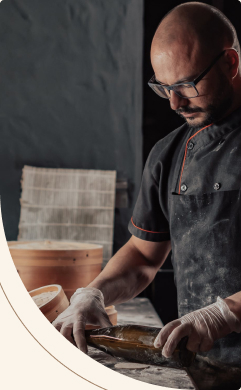
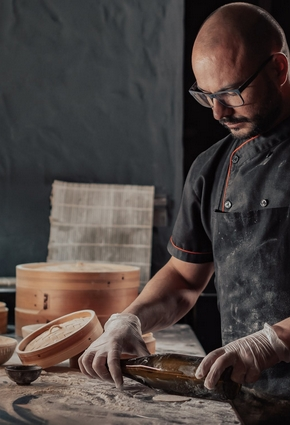
Add styles and work with SVG

diff --git a/index.html b/index.html
@@ -61,35 +61,40 @@
                             обслуговування!
                         </p>
                     </div>
-                    <img src="./images/baker-with-fresh-bread.jpg"
+                    <img class="baker-photo" src="./images/baker-with-fresh-bread.jpg"
                         alt="Пекар з усмішкою транспотрує стійку зі свіжим хлібом">
                 </div>
             </div>
         </section>
         <section class="section" id="chefs-section">
             <div class="container">
-                <h2 class="chef-title section-title">Наші найкращі <span class="accent">шеф -кухарі</span></h2>
-                <ul>
+                <h2 class="chef-title section-title centered">Наші найкращі <span class="accent">шеф -кухарі</span></h2>
+                <ul class="chef-container">
                     <li>
-                        <article>
-                            <img src="./images/chef-women.jpg"
+                        <article class="chef-card">
+                            <img class="chef-photo" src="./images/chef-women.jpg"
                                 alt="Жінка пекарь посміхається та тримає тарілку зі стравою">
-                            <h3 class="chef-name">Настя</h3>
-                            <p>Привіт, я Настя!</p>
-                            <p>Вже 10 років, я свтілюю у життя цікаві та смачні ідеї.</p>
-                            <p>Я випічу для вас найсмачніщі вироби!</p>
+                            <div class="chef-discription">
+                                <h3 class="chef-name">Настя</h3>
+                                <p>Привіт, я Настя!</p>
+                                <p>Вже 10 років, я свтілюю <br>у життя цікаві та смачні ідеї.</p>
+                                <p>Я випічу для вас найсмачніщі вироби!</p>
+                            </div>
                         </article>
                     </li>
                     <li>
-                        <article>
-                            <img src="./images/chef-men.jpg" alt="Пекар чоловік працює з тестом">
-                            <h3 class="chef-name">Влад</h3>
-                            <p>Привіт, я Влад!</p>
-                            <p>Мій кодитерський стаж вже 18 років. SHOP BEKERY - це наша любов, з якою ми ділимось кожен
-                                раз
-                                з Вами
-                                через нашу випічку!</p>
-                            <p>Я зроблю для вас унікальну начинку на будь який смак!</p>
+                        <article class="chef-card">
+                            <img class="chef-photo" src="./images/chef-men.jpg" alt="Пекар чоловік працює з тестом">
+                            <div class="chef-discription">
+                                <h3 class="chef-name">Влад</h3>
+                                <p>Привіт, я Влад!</p>
+                                <p>Мій кодитерський стаж вже 18 років. SHOP BEKERY - це наша любов, з якою ми ділимось
+                                    кожен
+                                    раз
+                                    з Вами
+                                    через нашу випічку!</p>
+                                <p>Я зроблю для вас унікальну начинку на будь який смак!</p>
+                            </div>
                         </article>
                     </li>
                 </ul>
@@ -97,7 +102,12 @@
         </section>
         <section class="section" id="format-section">
             <div class="container">
-                <h2 class="format-title section-title">Формати</h2>
+                <h2 class="format-title section-title centered">Формати</h2>
+                <button class="back-button" type="button">
+                    <svg class="formats-arrow">
+                        <use href="./images/icons.svg#icon-arrow"></use>
+                    </svg>
+                </button>
                 <ul class="format-list">
                     <li class="format-item">
                         <article class="format-card">
@@ -133,6 +143,11 @@
                         </article>
                     </li>
                 </ul>
+                <button class="forvard-button" type="button">
+                    <svg class="formats-arrow">
+                        <use href="./images/icons.svg#icon-arrow"></use>
+                    </svg>
+                </button>
             </div>
         </section>
         <section class="section" id="contacts-section">
@@ -171,8 +186,15 @@
                             Січових
                             Стрільців 54</a>
                     </li>
-                    <li><a href="#"><img src="./images/facebook-icon.svg" alt="Посилання на сторінку Fasebook"></a></li>
-                    <li><a href="#"><img src="./images/instagram-icon.svg" alt="Посилання на сторінку Instagram"></a>
+                    <li><a href="#">
+                            <svg class="adress-icon">
+                                <use href="./images/icons.svg#icon-facebook">Посилання на сторінку Fasebook</use>
+                            </svg>
+                    </li>
+                    <li><a href="#">
+                            <svg class="adress-icon">
+                                <use href="./images/icons.svg#icon-instagram">Посилання на сторінку Instagram</use>
+                            </svg>
                     </li>
                 </ul>
             </address>

diff --git a/css/styles.css b/css/styles.css
@@ -27,10 +27,12 @@
 }
 
 :root {
-    --color-brand-light: #819B57;
+    --color-brand-light: #CFCFBC;
+    --color-brand-normal: #819B57;
     --color-brand-dark: #465929;
     --color-primary-light: #FAF4EA;
     --color-primary-dark: #31261A;
+    --color-decoration: #A18268;
 }
 
 /* -- general properties -- */
@@ -39,15 +41,22 @@
 }
 
 body {
-    width: 100%;
-    max-width: 1440px;
-    margin: 0 auto; 
+    /* width: 100%;
+    max-width: 1440px; */
+    /* margin: 0 auto;  */
     color: var(--color-primary-dark);
     /* background-color: var(--color-primary-light); */
     font-family: 'Poppins', sans-serif;
     font-size: 18px;
     font-weight: 400;
     line-height: 1.5;
+}
+
+main {
+    width: 100%;
+    max-width: 1440px;
+    margin: 0 auto;
+    background-color: var(--color-primary-light);
 }
 
 .container {
@@ -77,12 +86,16 @@ ul {
     line-height: 1.3;
 }
 
+.section-title.centered {
+    text-align: center;
+}
+
 .section-title .accent {
     color: var(--color-brand-dark);
 }
 
 .accent {
-    color: var(--color-brand-light);
+    color: var(--color-brand-normal);
 }
 
 .section {
@@ -101,9 +114,9 @@ ul {
 /* -- buttons -- */
 .button {
     padding: 16px 32px;
-    background-color: var(--color-brand-light);
+    background-color: var(--color-brand-normal);
     color: var(--color-primary-light);
-    border: 2px solid var(--color-brand-light);
+    border: 2px solid var(--color-brand-normal);
     border-radius: 8px;
     cursor: pointer;
     font-size: 18px;
@@ -144,13 +157,13 @@ ul {
 }
 
 .header-link:hover {
-    color: var(--color-brand-light);
+    color: var(--color-brand-normal);
     /* font-weight: 600; */
 }
 
 /* -- general section -- */
 .general-section {
-    background-image: url(../images/couple-in-bakery.jpg);
+    background-image: url(../images/header-background.jpg);
     background-position: center;
     background-size: cover;
     padding: 272px 0;
@@ -165,7 +178,7 @@ ul {
 
 /* -- advantages section -- */
 .advantages-section {
-    background-color: var(--color-brand-light);
+    background-color: var(--color-brand-normal);
     padding: 16px 0;
 }
 
@@ -208,7 +221,7 @@ ul {
 }
 
 .traditions-text span {
-    color: var(--color-brand-light);
+    color: var(--color-brand-normal);
     font-weight: 600;
 }
 
@@ -222,11 +235,21 @@ ul {
     flex-basis: 710px;
 }
 
+.baker-photo {
+    border-radius: 400px 400px 2px 2px;
+}
+
 /* -- chefs section -- */
 .chef-title {
-    margin: 0 auto;
-    text-align: center;
+    margin: 0 auto 80px;
     max-width: 520px;
+}
+
+.chef-title::before, .chef-title::after {
+    display: block;
+    width: 352px;
+    border: 2px solid var(--color-brand-light);
+    content: '';
 }
 
 .chef-name {
@@ -235,22 +258,48 @@ ul {
     font-size: 40px;
 }
 
-/* -- format section -- */
-.format-title {
-    text-align: center;
+.chef-photo {
+    border-radius: 4px 4px 4px 200px;
+    box-shadow: -27px 16px 0 0 var(--color-primary-light), -27px 16px 0 1px var(--color-decoration);
 }
+
+.chef-container {
+    display: flex;
+}
+
+.chef-container li {
+    flex-basis: calc(100% / 2);
+}
+
+.chef-card {
+    display: flex;
+}
+
+.chef-discription {
+    padding-left: 30px;
+    max-width: 330px;
+}
+
+/* -- format section -- */
 
 .card-title {
     color: var(--color-primary-light);
     font-weight: 600;
     font-size: 24px;
+    margin-bottom: 16px;
 }
 
-.format-description{
+.format-description {
     color: var(--color-primary-light);
     font-weight: 300;
     font-size: 14px;
 }
+
+.format-description p {
+    max-width: 280px;
+    margin-bottom: 0;
+}
+
 
 .format-list {
     display: flex;
@@ -260,15 +309,44 @@ ul {
 }
 
 .format-item {
+
     flex-basis: calc((100% - 40px)/3);
 }
 
 .format-card {
+    background-image: linear-gradient(180deg, #31261a00 55.21%, #31261ab5 72.92%, var(--color-primary-dark) 100%);
     height: 440px;
     padding: 24px;
+    padding-top: 250px;
     border-radius: 16px;
-    border: 1px solid var(--color-brand-dark); /* Remove */
-    background-color: rgb(179, 179, 179); /* Remove */
+}
+
+.formats-arrow {
+    width: 16px;
+    height: 16px;
+    fill: var(--color-primary-dark);
+}
+
+.back-button, .forvard-button {
+    display: flex;
+    align-items: center;
+    justify-content: center;
+    padding: 0;
+    background-color: transparent;
+    width: 44px;
+    height: 44px;
+    border: 1px solid var(--color-primary-dark);
+    border-radius: 50%;
+    cursor: pointer;
+}
+
+.back-button:hover, .forvard-button:hover {
+    background-color: var(--color-primary-dark);
+}
+
+.back-button:hover .formats-arrow,
+.forvard-button:hover .formats-arrow {
+    fill: var(--color-brand-light);
 }
 
 /* -- contacts section -- */
@@ -286,6 +364,16 @@ ul {
 }
 
 /* -- footer -- */
+footer {
+    background-color: var(--color-primary-dark);
+    background-image: url(../images/footer-backgraund.png);
+    background-position: center;
+    background-size: cover;
+    width: 100%;
+    max-width: 1440px;
+    margin: 0 auto;
+}
+
 .footer-link {
     color: var(--color-primary-light);
     text-decoration: none;
@@ -299,8 +387,18 @@ ul {
 }
 
 .footer-link:hover, .addres-link:hover {
-    color: var(--color-brand-light);
-    font-weight: 600;
+    color: var(--color-brand-normal);
+    /* font-weight: 600; */
+}
+
+.adress-icon {
+    width: 32px;
+    height: 32px;
+    fill: var(--color-primary-light);
+}
+
+.adress-icon:hover {
+    fill: var(--color-brand-normal);
 }
 
 .copyright {
